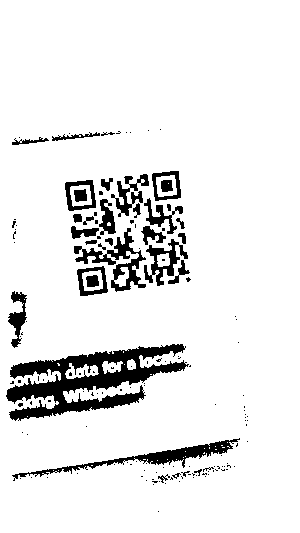
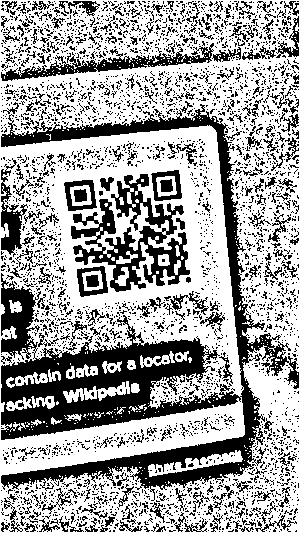
Improve binarization a bit

diff --git a/CodeReaderCommons/CodeReaderCommons.cs b/CodeReaderCommons/CodeReaderCommons.cs
@@ -4,6 +4,15 @@ using SixLabors.ImageSharp;
 namespace CodeReaderCommons {
     public static class Commons {
 
+        private class WelfordSampleInfo {
+            public WelfordSampleInfo() {}
+            public int count = 0;
+            public double sampleMean = 0;
+            //M2 from Welford's online algorithm. When divided by (count - 1) the square root equals sampleDeviation.
+            //https://en.wikipedia.org/wiki/Algorithms_for_calculating_variance#Welford's_online_algorithm
+            public double sampleM2 = 0;
+        }
+
         /// <summary>
         /// Binarizes grayscale input image based on a local tresholding algorithm.
         ///  
@@ -15,90 +24,108 @@ namespace CodeReaderCommons {
         public static Image<Rgba32> Binarize(Image<Rgba32> image) {
             
             //Possibly should be input parameter 
-            const int windowSize = 31;
+            const int windowSize = 25;
             //2D array of the running sum of pixel intensity values
-            int[,] intensitySumMatrix = new int[image.Width + ((windowSize / 2) * 2), image.Height + ((windowSize / 2) * 2)];
+            WelfordSampleInfo[,] deviationSampleMatrix = new WelfordSampleInfo[image.Width + ((windowSize / 2) * 2), image.Height + ((windowSize / 2) * 2)];
+            //TODO should be a function
+            for (int j = 0; j < image.Height + ((windowSize / 2) * 2); j++) {
+                for (int i = 0; i < image.Width + ((windowSize / 2) * 2); i++) {
+                    deviationSampleMatrix[i, j] = new WelfordSampleInfo();
+                }
+            }
+        
+            //2D array of the running sum of pixel intensity values
+            //int[,] intensitySumMatrix = new int[image.Width + ((windowSize / 2) * 2), image.Height + ((windowSize / 2) * 2)];
             //2D array of the running sum of pixel intensity deviation values
-            int[,] deviationSumMatrix = new int[image.Width + ((windowSize / 2) * 2), image.Height + ((windowSize / 2) * 2)];
+            //int[,] deviationSumMatrix = new int[image.Width + ((windowSize / 2) * 2), image.Height + ((windowSize / 2) * 2)];
             //the "+ 2" is there to avoid bound checks when convolving with kernel
             int[,] thresholdT1Matrix = new int[image.Width + 2, image.Height + 2];
-            int[,] thresholdT2Matrix = new int[image.Width, image.Height];
+            //int[,] thresholdT2Matrix = new int[image.Width, image.Height];
             int[,] convolutionKernel = new int[,] {{1, 1, 1}, {1, 2, 1}, {1, 1, 1}};
             const int kernelSize = 3;
             const int kernelValuesSum = 10;
             //Padded image to avoid bound checks
             Image<Rgba32> paddedImage = GetPaddedImage(image, windowSize / 2);
-
+            
             //First part of the algorithm. Calculate T1 from the paper.
             paddedImage.ProcessPixelRows(accessor => {
-                for (int y = windowSize / 2; y < accessor.Height - (windowSize / 2) - 1; y++) {
+                for (int y = windowSize / 2; y < accessor.Height - (windowSize / 2); y++) {
                     Span<Rgba32> pixelRow = accessor.GetRowSpan(y);
 
                     // pixelRow.Length has the same value as accessor.Width,
                     // but using pixelRow.Length allows the JIT to optimize away bounds checks:
-                    for (int x = windowSize / 2; x < pixelRow.Length - (windowSize / 2) - 1; x++) {
+                    for (int x = windowSize / 2; x < pixelRow.Length - (windowSize / 2); x++) {
                         // Get a reference to the pixel at position x
                         ref Rgba32 pixel = ref pixelRow[x];
                         int pixelValue = (int)pixel.R;
 
-                        for (int j = y - (windowSize / 2); j < y + (windowSize / 2) - 1; j++) {
-                            for (int i = x - (windowSize / 2); i < x + (windowSize / 2) - 1; i++) {
+                        for (int j = y - (windowSize / 2); j <= y + (windowSize / 2); j++) {
+                            for (int i = x - (windowSize / 2); i <= x + (windowSize / 2); i++) {
                                 //Console.WriteLine($"{i}, {j},  matrix: {image.Width + (windowSize / 2)}x{image.Height + (windowSize / 2)}");
-                                intensitySumMatrix[i,j] += pixelValue;
+                                //intensitySumMatrix[i,j] += pixelValue;
+                                var deviationSampleInfo = deviationSampleMatrix[i, j];
+                                deviationSampleInfo.count++;
+                                double delta1 = pixelValue - deviationSampleInfo.sampleMean;
+                                deviationSampleInfo.sampleMean += (delta1 / deviationSampleInfo.count);
+                                double delta2 = pixelValue - deviationSampleInfo.sampleMean;
+                                deviationSampleInfo.sampleM2 += (delta1 * delta2);
                             }
                         }
                     }
                 }
             });
 
-            //Calculate the deviation (this and previous step unfortunatelly cannot be done in one iteration)
-            paddedImage.ProcessPixelRows(accessor => {
-                for (int y = windowSize / 2; y < accessor.Height - (windowSize / 2) - 1; y++) {
-                    Span<Rgba32> pixelRow = accessor.GetRowSpan(y);
+            // //Calculate the deviation (this and previous step unfortunatelly cannot be done in one iteration)
+            // paddedImage.ProcessPixelRows(accessor => {
+            //     for (int y = windowSize / 2; y < accessor.Height - (windowSize / 2) - 1; y++) {
+            //         Span<Rgba32> pixelRow = accessor.GetRowSpan(y);
 
-                    // pixelRow.Length has the same value as accessor.Width,
-                    // but using pixelRow.Length allows the JIT to optimize away bounds checks:
-                    for (int x = windowSize / 2; x < pixelRow.Length - (windowSize / 2) - 1; x++) {
-                        // Get a reference to the pixel at position x
-                        ref Rgba32 pixel = ref pixelRow[x];
-                        int pixelValue = (int)pixel.R;
+            //         // pixelRow.Length has the same value as accessor.Width,
+            //         // but using pixelRow.Length allows the JIT to optimize away bounds checks:
+            //         for (int x = windowSize / 2; x < pixelRow.Length - (windowSize / 2) - 1; x++) {
+            //             // Get a reference to the pixel at position x
+            //             ref Rgba32 pixel = ref pixelRow[x];
+            //             int pixelValue = (int)pixel.R;
 
-                        for (int j = y - (windowSize / 2); j < y + (windowSize / 2) - 1; j++) {
-                            for (int i = x - (windowSize / 2); i < x + (windowSize / 2) - 1; i++) {
-                                int windowMean = intensitySumMatrix[x - (windowSize / 2), y - (windowSize / 2)] / (windowSize * windowSize);
-                                int pixelDeviation = pixelValue - windowMean;
-                                deviationSumMatrix[i,j] += pixelDeviation * pixelDeviation;
-                            }
-                        }
-                    }
-                }
-            });
+            //             for (int j = y - (windowSize / 2); j < y + (windowSize / 2) - 1; j++) {
+            //                 for (int i = x - (windowSize / 2); i < x + (windowSize / 2) - 1; i++) {
+            //                     int windowMean = intensitySumMatrix[x - (windowSize / 2), y - (windowSize / 2)] / (windowSize * windowSize);
+            //                     int pixelDeviation = pixelValue - windowMean;
+            //                     deviationSumMatrix[i,j] += pixelDeviation * pixelDeviation;
+            //                 }
+            //             }
+            //         }
+            //     }
+            // });
+
+            // //Compute threshold
+            // for (int j = 0; j < image.Height; j++) {
+            //     for (int i = 0; i < image.Width; i++) {
+            //         int windowSizeSquared = windowSize * windowSize;
+            //         int windowMean = intensitySumMatrix[i + (windowSize / 2), j + (windowSize / 2)] / windowSizeSquared;
+            //         double windowStandardDeviation = Math.Sqrt((double)(deviationSumMatrix[i + (windowSize / 2), j + (windowSize / 2)] / (windowSizeSquared - 1)));
+            //         const int R = 1250;
+            //         int thresholdT1 = (int)(windowMean * (1 + (windowStandardDeviation / R)));
+            //         //Console.WriteLine($"{i}, {j},  matrix: {image.Width}x{image.Height}");
+            //         //"+ 1" to compensate for padding
+            //         thresholdT1Matrix[i + 1,j + 1] = thresholdT1;
+            //     }
+            // }
 
             //Compute threshold
             for (int j = 0; j < image.Height; j++) {
                 for (int i = 0; i < image.Width; i++) {
-                    int windowSizeSquared = windowSize * windowSize;
-                    int windowMean = intensitySumMatrix[i + (windowSize / 2), j + (windowSize / 2)] / windowSizeSquared;
-                    double windowStandardDeviation = Math.Sqrt((double)(deviationSumMatrix[i + (windowSize / 2), j + (windowSize / 2)] / (windowSizeSquared - 1)));
+                    var welfordInfo = deviationSampleMatrix[i + (windowSize / 2), j + (windowSize / 2)];
+                    double windowMean = welfordInfo.sampleMean;
+                    //Console.WriteLine($"sample: {windowMean}, real: {(double)intensitySumMatrix[i + (windowSize / 2), j + (windowSize / 2)] / (windowSize * windowSize)}");
+                    double windowStandardDeviation = Math.Sqrt(welfordInfo.sampleM2 / (welfordInfo.count - 1));
+                    //double windowStandardDeviationNotSample = Math.Sqrt((double)(deviationSumMatrix[i + (windowSize / 2), j + (windowSize / 2)] / ((windowSize * windowSize) - 1)));
+                    //Console.WriteLine($"sample: {windowStandardDeviation}, real: {windowStandardDeviationNotSample}");
                     const int R = 1250;
                     int thresholdT1 = (int)(windowMean * (1 + (windowStandardDeviation / R)));
                     //Console.WriteLine($"{i}, {j},  matrix: {image.Width}x{image.Height}");
                     //"+ 1" to compensate for padding
                     thresholdT1Matrix[i + 1,j + 1] = thresholdT1;
-                }
-            }
-
-            //Convolve threshold matrix with kernel. Step 2 from the paper.
-            for (int j = 1; j < image.Height + 1; j++) {
-                for (int i = 1; i < image.Width + 1; i++) {
-                    int convolutionSum = 0;
-                    for (int l = -(kernelSize / 2); l < (kernelSize / 2) + 1; l++) {
-                        for (int k = -(kernelSize / 2); k < (kernelSize / 2) + 1; k++) {
-                            convolutionSum += convolutionKernel[(kernelSize / 2) + k, (kernelSize / 2) + l] * thresholdT1Matrix[i + k, j + l];
-                        }
-                    }
-
-                    thresholdT2Matrix[i - 1, j - 1] = convolutionSum / kernelValuesSum;
                 }
             }
 
@@ -110,11 +137,20 @@ namespace CodeReaderCommons {
                     // pixelRow.Length has the same value as accessor.Width,
                     // but using pixelRow.Length allows the JIT to optimize away bounds checks:
                     for (int x = 0; x < pixelRow.Length; x++) {
+                        //TODO: make function from convolution
+                        int convolutionSum = 0;
+                        for (int j = -(kernelSize / 2); j <= (kernelSize / 2); j++) {
+                            for (int i = -(kernelSize / 2); i <= (kernelSize / 2); i++) {
+                                convolutionSum += convolutionKernel[(kernelSize / 2) + i, (kernelSize / 2) + j] * thresholdT1Matrix[x + i + 1, y + j + 1];
+                            }
+                        }
+                        int thresholdT2 = convolutionSum / kernelValuesSum;
+
                         // Get a reference to the pixel at position x
                         ref Rgba32 pixel = ref pixelRow[x];
                         int pixelValue = pixel.R;
 
-                        if (pixelValue > thresholdT2Matrix[x, y]) {
+                        if (pixelValue >= thresholdT2) { //thresholdT2Matrix[x, y]
                             pixel = Color.White;
                         }   
                         else {
@@ -124,7 +160,7 @@ namespace CodeReaderCommons {
                 }
             });
 
-            return image;
+            return image; 
         }
         
 

diff --git a/OpenReader/Program.cs b/OpenReader/Program.cs
@@ -1,22 +1,26 @@
 using SixLabors.ImageSharp.Processing.Processors.Binarization;
 using CodeReaderCommons;
+using System.Diagnostics;
 
 namespace QRCodeReader {
     public class Program {
         public static void Main(string[] args) {
-            // Bitmap test = new Bitmap("../TestData/QRCodeTest1.jpeg");
-            // CodeReaderCommons.ProcessUsingLockbitsAndUnsafeAndParallel(test);
 
             using (Image<Rgba32> image = Image.Load<Rgba32>("../TestData/QRCodeTest1.jpeg")) {
-                
+                Stopwatch sw = new Stopwatch();
+                sw.Start();
                 image.Mutate(x => x.Resize(300,0));
                 image.Mutate(x => x.Grayscale());
+                //image.Mutate(x => x.AdaptiveThreshold());
                 var binarizedImage = Commons.Binarize(image);
 
-                //ImageProcessor<Rgba32> binarizationProcessor = CreatePixelSpecificProcessor<Rgba32>(new Configuration(), test, new Rectangle(0, 0, test.Width, test.Height));
-                //binarizationProcessor.Execute();
-
+                // ImageProcessor<Rgba32> binarizationProcessor = CreatePixelSpecificProcessor<Rgba32>(new Configuration(), image, new Rectangle(0, 0, image.Width, image.Height));
+                // binarizationProcessor.Execute();
+                sw.Stop();
+                Console.WriteLine($"time: {sw.Elapsed}");
                 binarizedImage.Save("../TestData/QRCodeTest1OUTPUT.png");
+                
+                //image.Save("../TestData/QRCodeTest1OUTPUT.png");
             }
         }
     }
